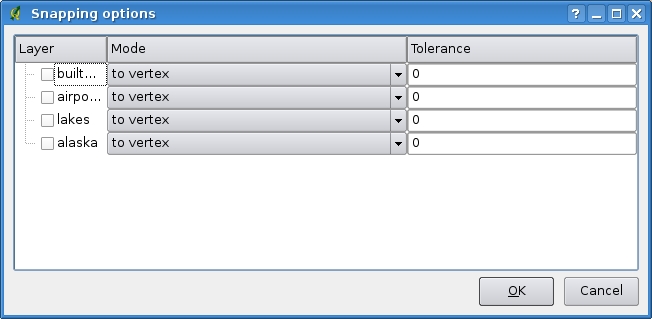
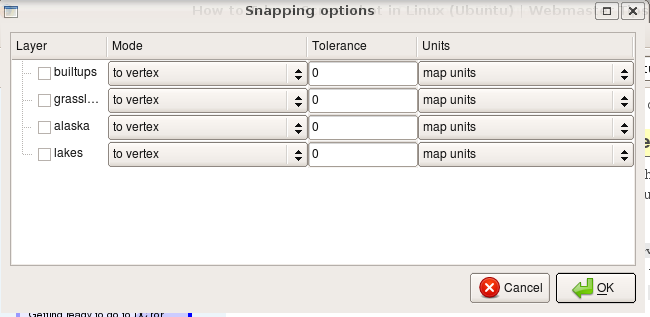
added subsections edited changes for postgis sll, improved handling of postgis and pixels as map units in chap 5
git-svn-id: https://svn.osgeo.org/qgis/docs/trunk@10685 c8812cc2-4d05-0410-92ff-de0c093fc19c

diff --git a/english_us/user_guide/working_with_vector.tex b/english_us/user_guide/working_with_vector.tex
@@ -5,7 +5,7 @@
 
 % when the revision of a section has been finalized,
 % comment out the following line:
-% \updatedisclaimer
+\updatedisclaimer
 
 
 QGIS supports vector data in a number of formats, including those
@@ -20,9 +20,9 @@ in a PostgreSQL database using the PostgreSQL data provider plugin.
 Support for additional data types (eg. delimited text) is provided by 
 additional data provider plugins.\index{delimited text}
 
-This section describes how to work with two common formats:
-ESRI shapefiles and PostGIS layers. Many of the
-features available in QGIS work the same regardless of the vector data source.
+This section describes how to work with several common formats:
+ESRI shapefiles, PostGIS layers, and SpatialLite layers. Many of the
+features available in QGIS work the same, regardless of the vector data source.
 This is by design and includes the identify, select, labeling and attributes
 functions.
 
@@ -34,9 +34,9 @@ Working with GRASS vector data is described in Section \ref{sec:grass}.
 \index{ESRI!shapefiles}
 \index{SHP files}
 
-The standard vector file format used in QGIS is the ESRI Shapefile. It's support 
+The standard vector file format used in QGIS is the ESRI Shapefile. Support 
 is provided by the OGR Simple Feature Library (\url{http://www.gdal.org/ogr/})
-\index{OGR}. A shapefile actually consists of a minimum of three files:
+\index{OGR}. A shapefile actually consists of several files. The following three are required:
 \index{shapefile!format}
 
 \begin{itemize}
@@ -45,20 +45,19 @@ is provided by the OGR Simple Feature Library (\url{http://www.gdal.org/ogr/})
 \item \filename{.shx} index file.
 \end{itemize}
 
-Ideally it comes with another file with a \filename{.prj} suffix, that contains
-the projection information for the shapefile. There can be more files belonging 
-to a shapefile dataset. To have a closer look at this we recommend the technical 
-specification for the shapefile format, that can be found at \url{http://www.esri.com/library/whitepapers/pdfs/shapefile.pdf}.
+Shapefiles also can include a file with a \filename{.prj} suffix, which contains
+the projection information. While it is very useful to have a projection file, it is not mandatory. A shapefile dataset can contain additional files. For further details see the ESRI technical specification at \url{http://www.esri.com/library/whitepapers/pdfs/shapefile.pdf}.
 \index{shapefile!specification}.
 
 \subsubsection{Loading a Shapefile}\label{sec:load_shapefile}
 \includegraphics[width=0.7cm]{mActionAddNonDbLayer} 
 To load a shapefile, start
 QGIS and click on the \toolbtntwo{mActionAddNonDbLayer}{Add a vector layer}
-toolbar button\index{shapefile!loading} or simply type \keystroke{V}. This same tool can be used to
-load any of the formats supported by the OGR library.
+toolbar button\index{shapefile!loading} or simply type \keystroke{V}. 
 
-Clicking on the tool brings up a standard open file dialog (see Figure
+This will bring up a new window (see Figure -- NEEDS TO BE ADDED). From the available options check the File box. 
+
+That will bring up a standard open file dialog (see Figure
 \ref{fig:openshapefile}) which allows you to navigate the file system and load
 a shapefile or other supported data source. 
 The selection box \selectstring{Files of type}{\ldots} allows you to preselect some OGR supported file formats.
@@ -195,6 +194,14 @@ server listens on. The default port is 5432.\\
 database. \\
 \hline Password \index{PostgreSQL!password}& Password used with
 \textsl{Username} to connect to the database.\\
+\hline SSL mode \index{PostgreSQL!sslmode}& How the SSL connection will be negotiated with the server. These are the options: 
+\begin {itemize}
+\item disable: only try an unencrypted SSL connection;
+\item allow: try a non-SSL connection, if that fails, try an SSL connection;
+\item prefer (the default): try an SSL connection, if that fails, try a non-SSL connection;
+\item require: only try an SSL connection.
+\end {itemize}
+Note that massive speedups in PostGIS layer rendering can be achieved by disabling SSL in the connection editor. \\
 \hline
 \end{tabular}
 \end{table}
@@ -264,8 +271,9 @@ changing the PostgreSQL table or view definition to allow QGIS to load it.
 QGIS requires that PostgreSQL layers contain a column that can be
 used as a unique key for the layer. For tables this usually means
 that the table needs a primary key, or a column with a unique
-constraint on it. QGIS additionally requires that this column be of
-type int4 (an integer of size 4 bytes). If a table lacks these items,
+constraint on it. In QGIS, this column needs to be of
+type int4 (an integer of size 4 bytes). Alternatively the ctid column can be used as primary key. 
+If a table lacks these items,
 the oid column will be used instead. Performance will be improved if the
 column is indexed (note that primary keys are automatically indexed in
 PostgreSQL). 
@@ -413,6 +421,14 @@ VACUUM
 gis_data=# \q
 gsherman@madison:~/current$
 \end{verbatim}
+
+\subsection{SpatiaLite Layers} 
+\index{SpatiaLite layers!properties dialog}
+\index{vector layers!SpatlaLIte|see{SpatiaLite}}
+\index{SpatiaLite!layers}
+\label{label_spatialite} 
+
+Needs to be written...
 
 \subsection{The Vector Properties Dialog}\label{sec:vectorprops}
 \index{vector layers!properties dialog}
@@ -814,6 +830,19 @@ the \tab{Attributes} tab.
 it allows to select a filename using the standard file dialog.
 \end{itemize}
 
+\subsubsection{Diagram Tab}\label{sec:diagram}
+\index{vector layers!diagram}
+
+Needs to be finished.
+
+The \tab{Diagram} tab allows you to add a grahic overlay to a vector layer.
+To activate this feature, open the plugin manager and select the 'Diagram Overlay' 
+plugin. After this, there is a new tab in the vector layer properties dialog 
+where the settings for diagrams may be entered.
+The current implementation of diagrams provides support for pie- and barcharts
+and for linear scaling of the diagram size according to a classification
+attribute.
+
 \subsection{Editing}\index{editing}
 
 QGIS supports basic capabilities for editing vector geometries.  Before reading any
@@ -840,16 +869,17 @@ mouse button, instead of snapping it to an existing vertex and/or segment.
 
 \begin{enumerate}
 \item A general, project wide snapping tolerance can be defined choosing
-\mainmenuopt{Settings} > \dropmenuopttwo{mActionOptions}{Options}
+\mainmenuopt{Settings} > \dropmenuopttwo{mActionOptions}{Options}. 
+(On Mac: go to  \mainmenuopt{QGIS} > Preferences, on Linux: \mainmenuopt{Edit} > \dropmenuopttwo{mActionOptions}{Options}.)
 In the \tab{Digitizing} tab you can select between to vertex, to segment or
 to vertex and segment as default snap mode. You can also define a default
-snapping tolerance and a search radius for vertex edits. Remember the
-tolerance is in layer units. In our digitizing project (working with the
+snapping tolerance and a search radius for vertex edits. The tolerance an be set either in map units or in pixels. 
+In our digitizing project (working with the
 Alaska dataset), the units are in feet. Your results may vary, but something
 on the order of 300ft should be fine at a scale of 1:10 000 should be a
 reasonable setting.
 \item A layer based snapping tolerance can be defined by choosing
-\mainmenuopt{Settings} > \dropmenuopttwo{mActionOptions}{Project
+\mainmenuopt{Settings} (or \mainmenuopt{File}) > \dropmenuopttwo{mActionOptions}{Project
 Properties\dots}. In the \tab{General} tab, section \classname{Digitize} you
 can click on \button{Snapping options\dots} to enable and adjust snapping
 mode and tolerance on a layer basis (see Figure~\ref{fig:snappingoptions}).
@@ -868,7 +898,7 @@ Search radius is the distance QGIS uses to \usertext{search} for the closest
 vertex you are trying to move when you click on the
 map. If you aren't within the search radius, QGIS won't find and select
 any vertex for editing and it will pop up an annoying warning to that effect.
-Snap tolerance and search radius are set in map units so you may find you
+Snap tolerance and search radius are set in map units or pixels, so you may find you
 need to experiment to get them set right. If you specify too big of a
 tolerance, QGIS may snap to the wrong vertex, especially if you are dealing
 with a large number of vertices in close proximity. Set search radius too
@@ -1238,7 +1268,8 @@ using GDAL 1.3.2 or higher.
 QGIS allows digitized vertices to be snapped to other vertices of the same layer. To 
 set the snapping tolerance, go to
 \mainmenuopt{Settings}>\dropmenuopttwo{mActionOptions}{Options}->\tab{Digitizing}.
-Note that the snapping tolerance is in map units.
+(On Mac: go to  \mainmenuopt{QGIS} > Preferences, on Linux: \mainmenuopt{Edit} > \dropmenuopttwo{mActionOptions}{Options}.)
+Note that the snapping tolerance is in map units or pixels.
 
 \minisec{Saving Edited Layers}
 \index{editing!saving changes}
@@ -1284,6 +1315,11 @@ are happy with the attributes, click \button{OK} and provide a name for the shap
 QGIS will automatically add a \filename{.shp} extension to the name you specify.  Once
 the layer has been created, it will be added to the map and you can edit it in
 the same way as described in Section \ref{sec:edit_existing_layer} above. 
+
+\subsubsection{Working with the Attribute Table}\label{sec:attribute table}\index{editing!working with the attribute table}
+
+Needs to be written.
+
 
 \subsection{Query Builder}\label{sec:query_builder}
 \index{Query Builder}
